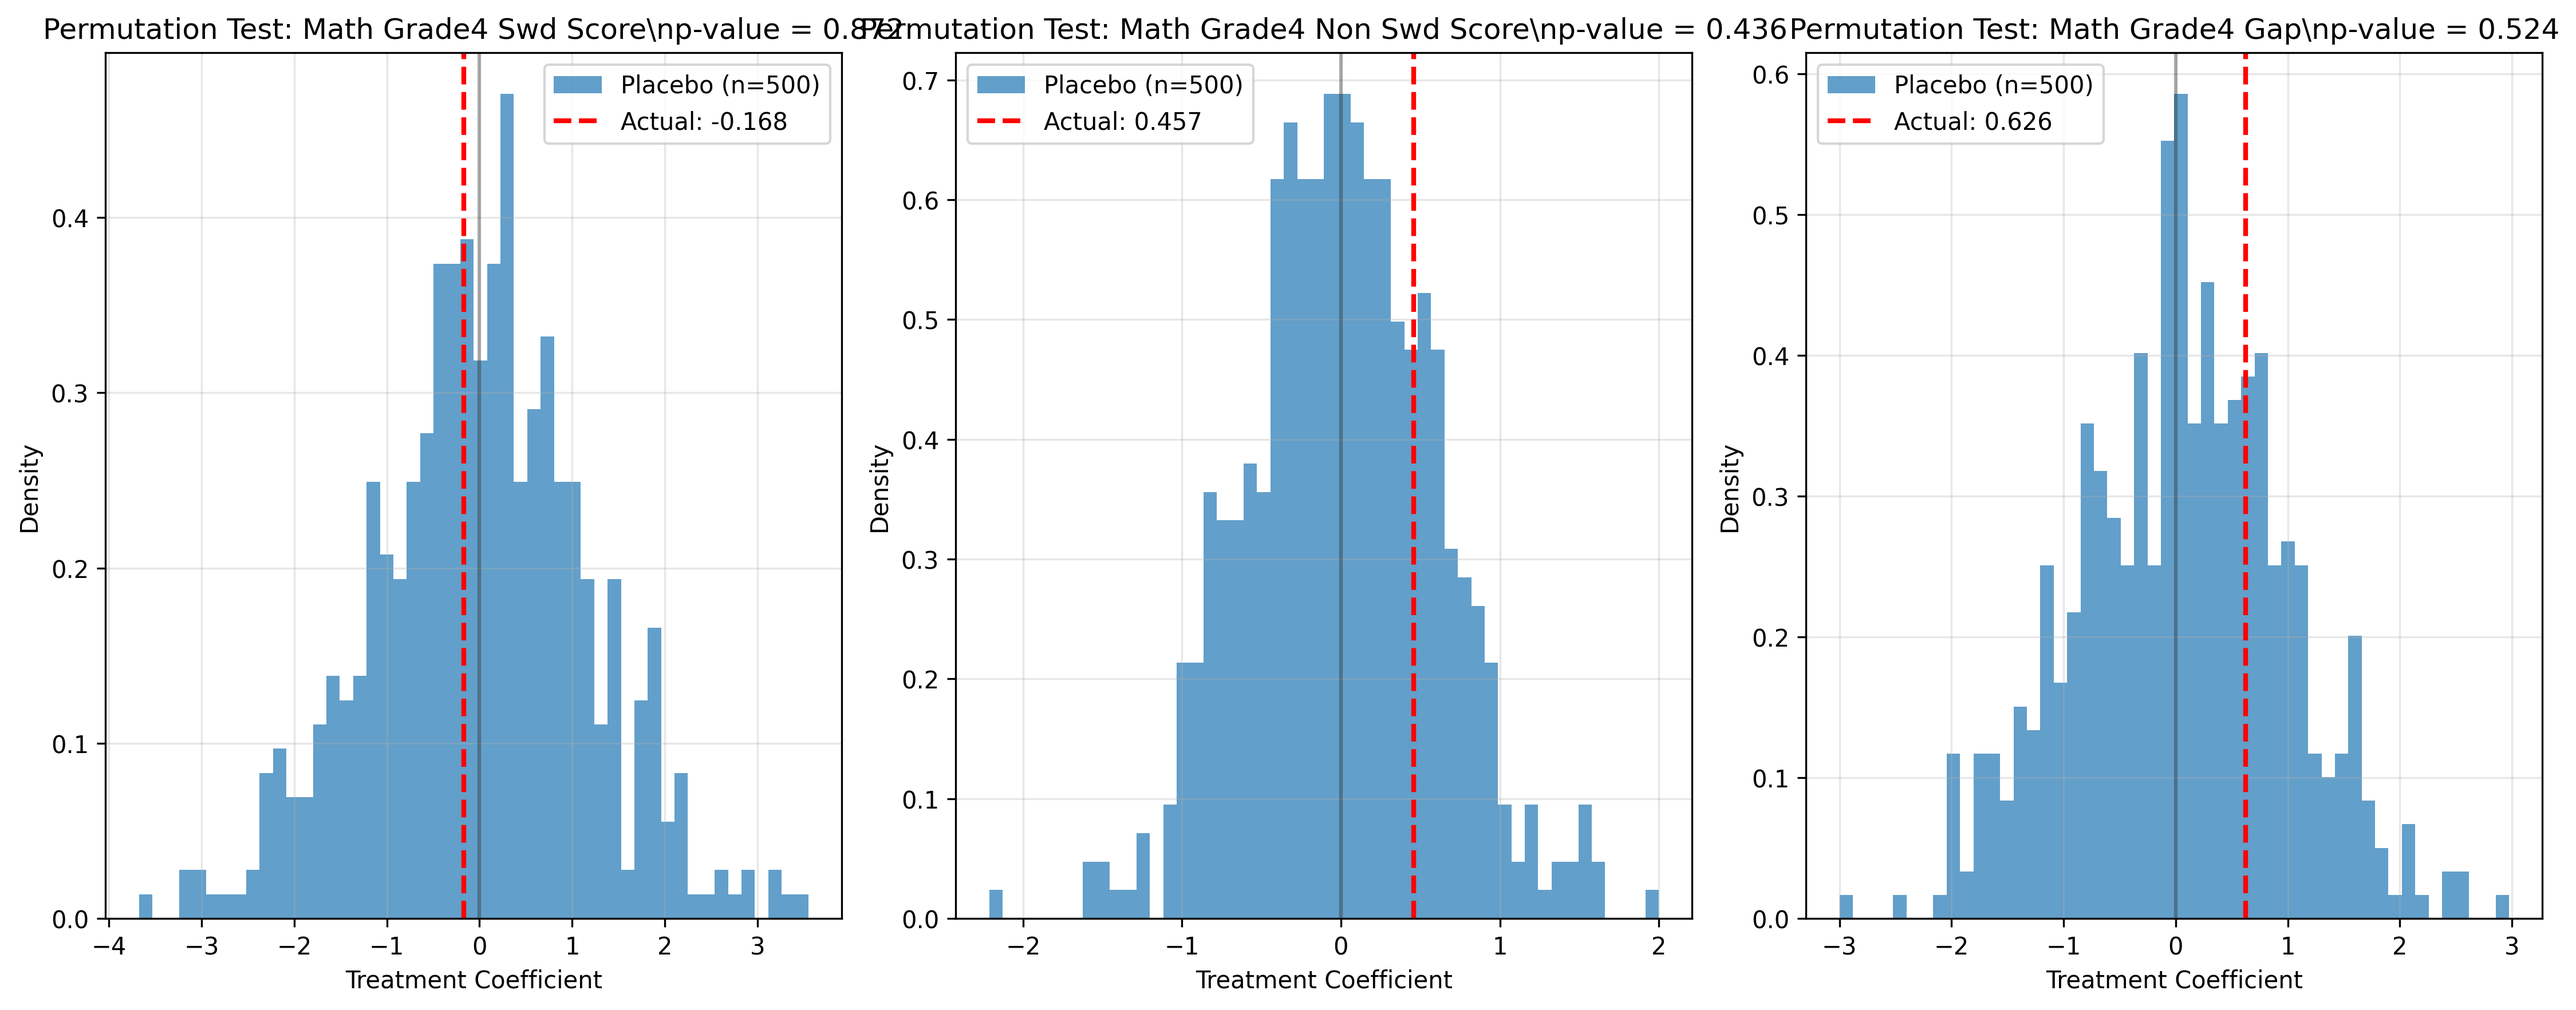
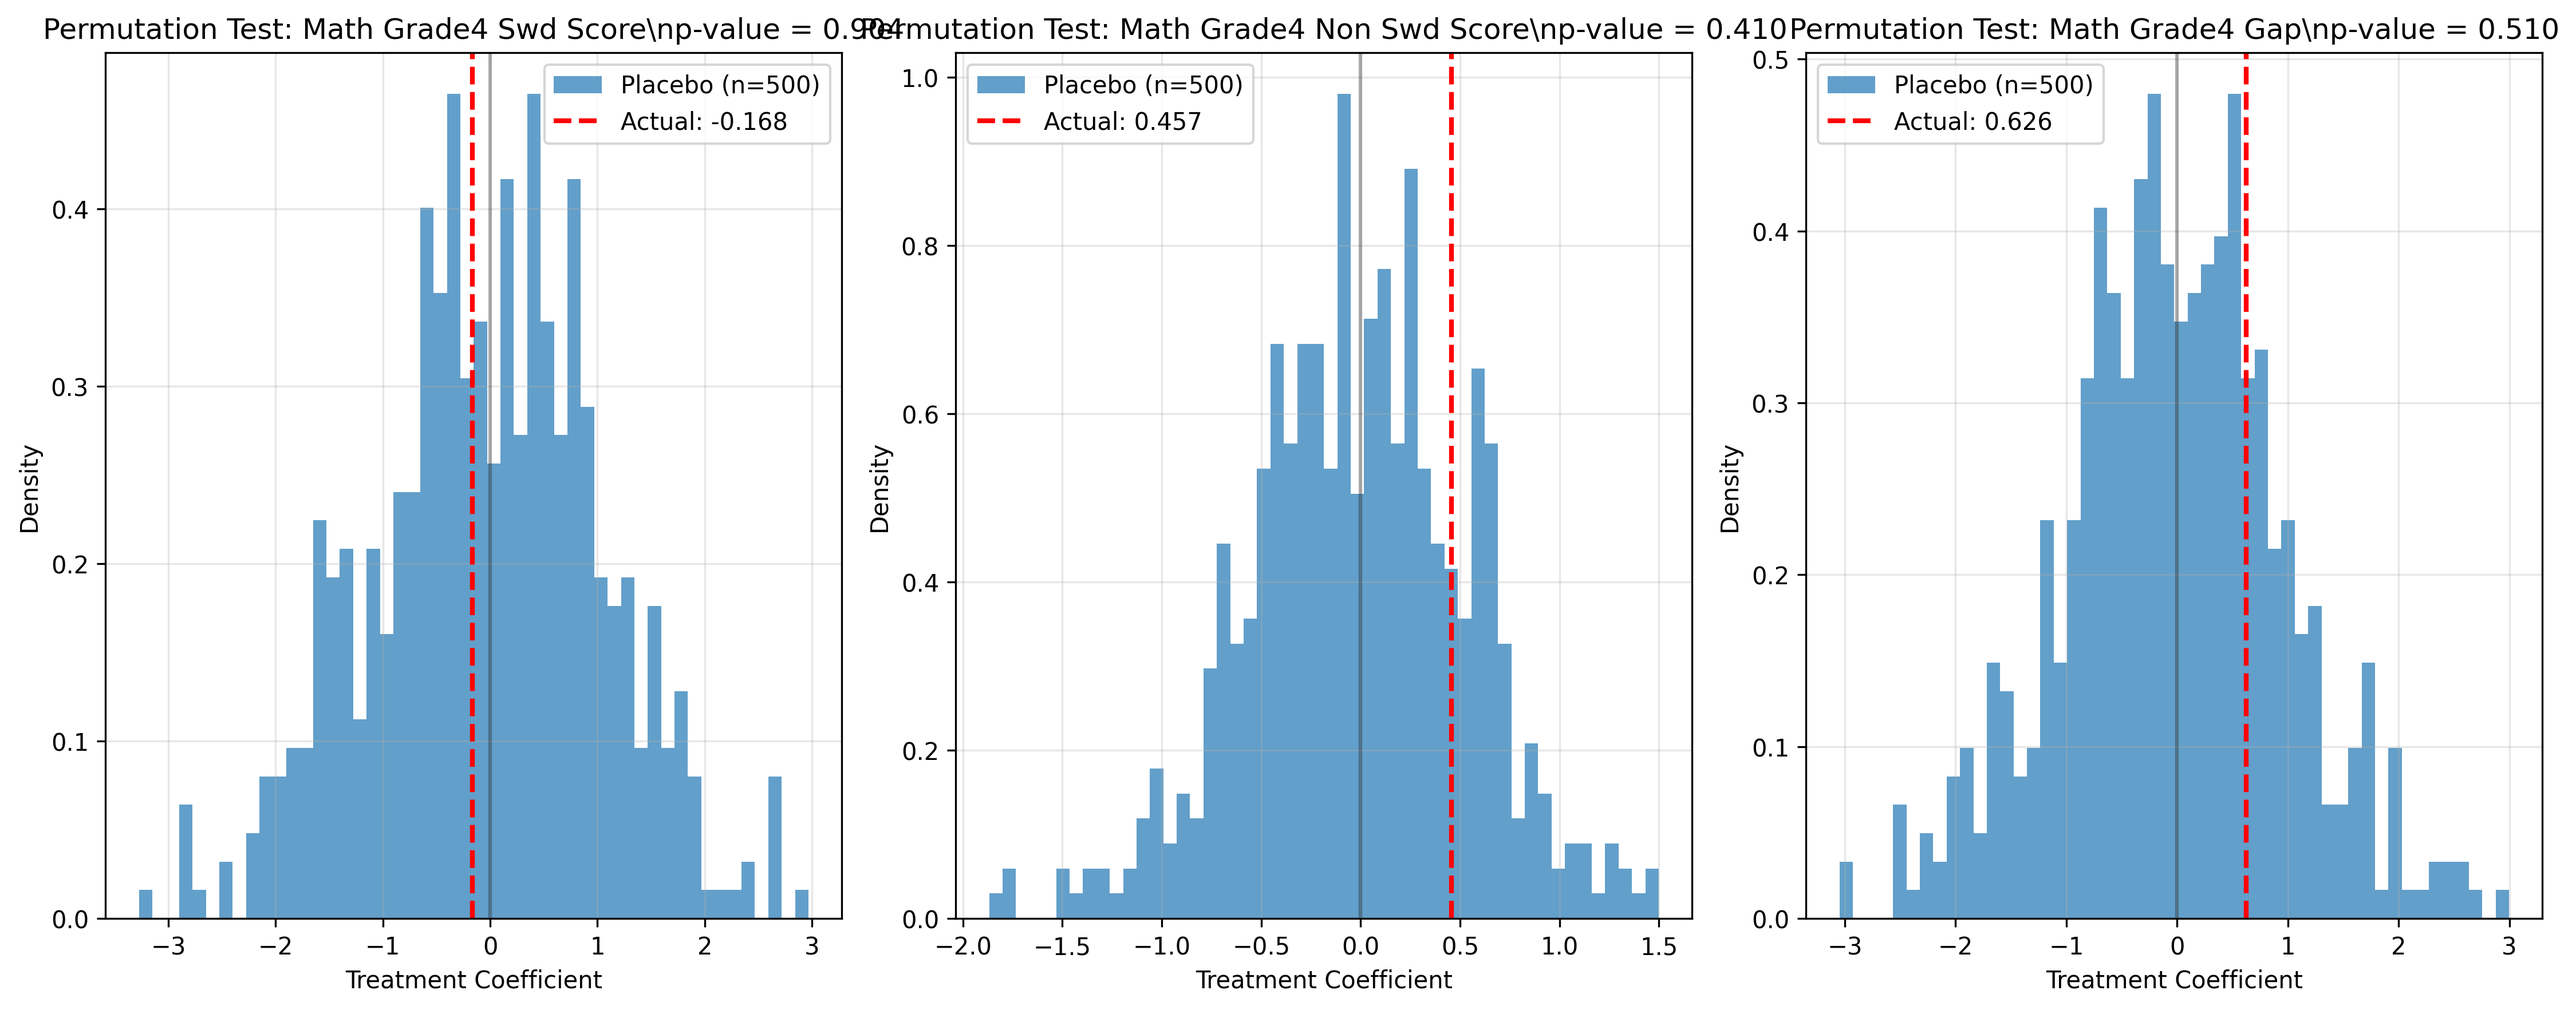
Generate fresh analysis reports with current timestamps
Updates:
- Regenerated all three analysis reports in output/reports/
- Updated timestamps to 2025-08-15 08:18-08:19 for publication readiness
- Refreshed robustness permutation results and figures
- Updated LaTeX and CSV tables with latest analysis results

Reports generated:
- descriptive_analysis_report.md: Phase 4.1 with summary stats and trends
- causal_analysis_report.md: Phase 4.2 with TWFE and event studies
- robustness_analysis_report.md: Phase 4.3 with permutation tests

All reports now ready for GitHub publication with professional formatting
and comprehensive analysis results from the complete analytical pipeline.

🤖 Generated with Claude Code

diff --git a/output/tables/table3_robustness_results.tex b/output/tables/table3_robustness_results.tex
@@ -6,9 +6,9 @@
 \toprule
 Outcome & LOSO Range & Alt. Clustering & Permutation p & Spec. Curve \\
 \midrule
-math\_grade4\_swd\_score & -- & [1.292, 1.292] & 0.872 & -- \\
-math\_grade4\_non\_swd\_score & -- & [0.729, 0.729] & 0.436 & -- \\
-math\_grade4\_gap & -- & [1.097, 1.097] & 0.524 & -- \\
+math\_grade4\_swd\_score & -- & [1.292, 1.292] & 0.904 & -- \\
+math\_grade4\_non\_swd\_score & -- & [0.729, 0.729] & 0.410 & -- \\
+math\_grade4\_gap & -- & [1.097, 1.097] & 0.510 & -- \\
 \bottomrule
 \end{tabular}
 \footnotesize
